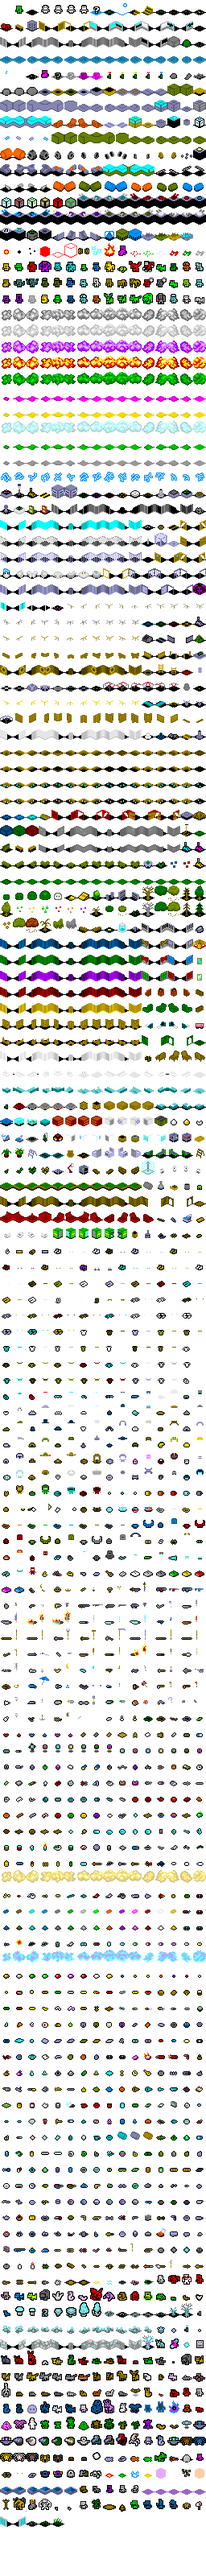
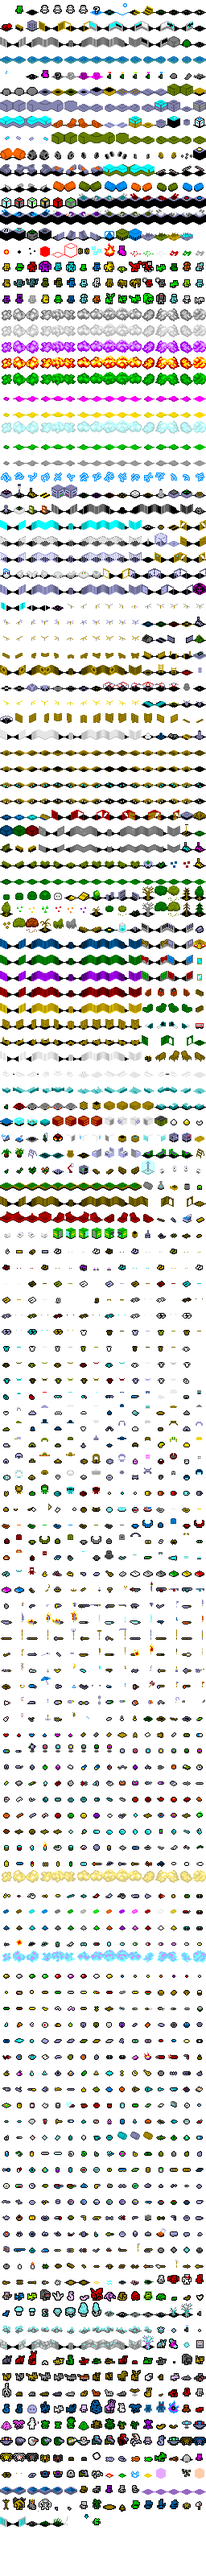
* add isometric branches to facing-left/facing-right calculations for monsters and player (including actions and ranged). The calculations are  simple and fast. * enable sprite flipping in isometric mode when appropriate * clarify to-flip-or-not-to-flip code for right/left-facing stuff * flip all en
* add run and crouch tile overlay support
* add run and crouch overlay tiles to hitbutton_iso tileset

* add parameter comments to some function calls that have many
parameters

* sneak brainless zombie sprite into hitbutton_iso tileset

* bonus: unshadow a couple of variables in big tile-drawing functions(x,
 y, col)

diff --git a/src/cata_tiles.cpp b/src/cata_tiles.cpp
@@ -1095,20 +1095,20 @@ void cata_tiles::draw( int destx, int desty, const tripoint &center, int width, 
             if( g->displaying_temperature ) {
                 int temp_value = g->weather.get_temperature( {x, y, center.z} );
                 int ctemp = temp_to_celsius( temp_value );
-                short col;
+                short color;
                 const short bold = 8;
                 if( ctemp > 40 ) {
-                    col = catacurses::red;
+                    color = catacurses::red;
                 } else if( ctemp > 25 ) {
-                    col = catacurses::yellow + bold;
+                    color = catacurses::yellow + bold;
                 } else if( ctemp > 10 ) {
-                    col = catacurses::green + bold;
+                    color = catacurses::green + bold;
                 } else if( ctemp > 0 ) {
-                    col = catacurses::white + bold;
+                    color = catacurses::white + bold;
                 } else if( ctemp > -10 ) {
-                    col = catacurses::cyan + bold;
+                    color = catacurses::cyan + bold;
                 } else {
-                    col = catacurses::blue + bold;
+                    color = catacurses::blue + bold;
                 }
                 if( get_option<std::string>( "USE_CELSIUS" ) == "celsius" ) {
                     temp_value = temp_to_celsius( temp_value );
@@ -1117,7 +1117,7 @@ void cata_tiles::draw( int destx, int desty, const tripoint &center, int width, 
 
                 }
                 overlay_strings.emplace( player_to_screen( x, y ) + point( tile_width / 2, 0 ),
-                                         formatted_text( std::to_string( temp_value ), col,
+                                         formatted_text( std::to_string( temp_value ), color,
                                                  NORTH ) );
             }
 
@@ -1176,24 +1176,24 @@ void cata_tiles::draw( int destx, int desty, const tripoint &center, int width, 
     }
 
     //Memorize everything the character just saw even if it wasn't displayed.
-    for( int y = 0; y < MAPSIZE_Y; y++ ) {
-        for( int x = 0; x < MAPSIZE_X; x++ ) {
+    for( int mem_y = 0; mem_y < MAPSIZE_Y; mem_y++ ) {
+        for( int mem_x = 0; mem_x < MAPSIZE_X; mem_x++ ) {
             //just finished o_x,o_y through sx+o_x,sy+o_y so skip them
-            if( x >= o_x && x < sx + o_x &&
-                y >= o_y && y < sy + o_y ) {
+            if( mem_x >= o_x && mem_x < sx + o_x &&
+                mem_y >= o_y && mem_y < sy + o_y ) {
                 continue;
             }
-            tripoint p( x, y, center.z );
+            tripoint p( mem_x, mem_y, center.z );
             int height_3d = 0;
             if( iso_mode ) {
                 //Iso_mode skips in a checkerboard
-                if( ( y ) % 2 != ( x ) % 2 ) {
+                if( ( mem_y ) % 2 != ( mem_x ) % 2 ) {
                     continue;
                 }
                 //iso_mode does weird things to x and y... replicate that
                 //The MAPSIZE_X/2 offset is to keep the rectangle in the upper right quadrant.
-                p.x = ( x - y - MAPSIZE_X / 2 + MAPSIZE_Y / 2 ) / 2 + MAPSIZE_X / 2;
-                p.y = ( y + x - MAPSIZE_Y / 2 - MAPSIZE_X / 2 ) / 2 + MAPSIZE_Y / 2;
+                p.x = ( mem_x - mem_y - MAPSIZE_X / 2 + MAPSIZE_Y / 2 ) / 2 + MAPSIZE_X / 2;
+                p.y = ( mem_y + mem_x - MAPSIZE_Y / 2 - MAPSIZE_X / 2 ) / 2 + MAPSIZE_Y / 2;
                 //Check if we're in previously done iso_mode space
                 if( p.x >= ( 0 - sy - sx / 2 + sy / 2 ) / 2 + o_x && p.x < ( sx - 0 - sx / 2 + sy / 2 ) / 2 + o_x &&
                     p.y >= ( 0 + 0 - sy / 2 - sx / 2 ) / 2 + o_y && p.y < ( sy + sx - sy / 2 - sx / 2 ) / 2 + o_y ) {
@@ -1750,7 +1750,7 @@ bool cata_tiles::draw_sprite_at( const tile_type &tile,
         sprite_num = 0;
     } else if( spritelist.size() == 1 ) {
         // just one tile, apply SDL sprite rotation if not in isometric mode
-        rotate_sprite = !tile_iso;
+        rotate_sprite = true;
         sprite_num = 0;
     } else {
         // multiple rotated tiles defined, don't apply sprite rotation after picking one
@@ -1805,19 +1805,34 @@ bool cata_tiles::draw_sprite_at( const tile_type &tile,
 #if defined(_WIN32)
                 destination.y -= 1;
 #endif
-                ret = sprite_tex->render_copy_ex( renderer, &destination, -90, NULL, SDL_FLIP_NONE );
+                if (not tile_iso) // never rotate isometric tiles
+                {
+                    ret = sprite_tex->render_copy_ex(renderer, &destination, -90, NULL, SDL_FLIP_NONE);
+                } else {
+                    ret = sprite_tex->render_copy_ex(renderer, &destination, 0, NULL, SDL_FLIP_NONE);
+                }
                 break;
             case 2: // 180 degrees, implemented with flips instead of rotation
-                ret = sprite_tex->render_copy_ex( renderer, &destination, 0, NULL,
-                                                  static_cast<SDL_RendererFlip>( SDL_FLIP_HORIZONTAL | SDL_FLIP_VERTICAL ) );
+                if (not tile_iso) // never flip isometric tiles vertically
+                {
+                    ret = sprite_tex->render_copy_ex(renderer, &destination, 0, NULL,
+                                                     static_cast<SDL_RendererFlip>( SDL_FLIP_HORIZONTAL | SDL_FLIP_VERTICAL ));
+                } else {
+                    ret = sprite_tex->render_copy_ex( renderer, &destination, 0, NULL, SDL_FLIP_NONE );
+                }
                 break;
             case 3: // 270 degrees
 #if defined(_WIN32)
                 destination.x -= 1;
 #endif
-                ret = sprite_tex->render_copy_ex( renderer, &destination, 90, NULL, SDL_FLIP_NONE );
+                if (not tile_iso) // never rotate isometric tiles
+                {
+                    ret = sprite_tex->render_copy_ex(renderer, &destination, 90, NULL, SDL_FLIP_NONE);
+                } else {
+                    ret = sprite_tex->render_copy_ex(renderer, &destination, 0, NULL, SDL_FLIP_NONE);
+                }
                 break;
-            case 4: // flip horizontaly
+            case 4: // flip horizontally
                 ret = sprite_tex->render_copy_ex( renderer, &destination, 0, NULL,
                                                   static_cast<SDL_RendererFlip>( SDL_FLIP_HORIZONTAL ) );
         }
@@ -1837,9 +1852,9 @@ bool cata_tiles::draw_tile_at( const tile_type &tile, int x, int y, unsigned int
                                int rota,
                                lit_level ll, bool apply_night_vision_goggles, int &height_3d )
 {
-    draw_sprite_at( tile, tile.bg, x, y, loc_rand, false, rota, ll, apply_night_vision_goggles );
-    draw_sprite_at( tile, tile.fg, x, y, loc_rand, true, rota, ll, apply_night_vision_goggles,
-                    height_3d );
+    draw_sprite_at(tile, tile.bg, x, y, loc_rand, /*fg:*/ false, rota, ll, apply_night_vision_goggles);
+    draw_sprite_at(tile, tile.fg, x, y, loc_rand, /*fg:*/ true, rota, ll, apply_night_vision_goggles,
+                   height_3d);
     return true;
 }
 
@@ -2314,10 +2329,10 @@ bool cata_tiles::draw_entity( const Creature &critter, const tripoint &p, lit_le
         const int subtile = corner;
         // depending on the toggle flip sprite left or right
         int rot_facing = -1;
-        if( m->facing == FD_LEFT ) {
-            rot_facing = 4;
-        } else if( m->facing == FD_RIGHT ) {
+        if( m->facing == FD_RIGHT ) {
             rot_facing = 0;
+        } else if( m->facing == FD_LEFT) {
+            rot_facing = 4;
         }
         if( rot_facing >= 0 ) {
             const auto ent_name = m->type->id;
@@ -2372,10 +2387,10 @@ void cata_tiles::draw_entity_with_overlays( const player &pl, const tripoint &p,
     int prev_height_3d = height_3d;
 
     // depending on the toggle flip sprite left or right
-    if( pl.facing == FD_LEFT ) {
-        draw_from_id_string( ent_name, C_NONE, "", p, corner, 4, ll, false, height_3d );
-    } else if( pl.facing == FD_RIGHT ) {
+    if( pl.facing == FD_RIGHT ) {
         draw_from_id_string( ent_name, C_NONE, "", p, corner, 0, ll, false, height_3d );
+    } else if( pl.facing == FD_LEFT ) {
+        draw_from_id_string( ent_name, C_NONE, "", p, corner, 4, ll, false, height_3d );
     }
 
     // next up, draw all the overlays
@@ -2384,10 +2399,10 @@ void cata_tiles::draw_entity_with_overlays( const player &pl, const tripoint &p,
         std::string draw_id = overlay;
         if( find_overlay_looks_like( pl.male, overlay, draw_id ) ) {
             int overlay_height_3d = prev_height_3d;
-            if( pl.facing == FD_LEFT ) {
-                draw_from_id_string( draw_id, C_NONE, "", p, corner, 4, ll, false, overlay_height_3d );
-            } else if( pl.facing == FD_RIGHT ) {
-                draw_from_id_string( draw_id, C_NONE, "", p, corner, 0, ll, false, overlay_height_3d );
+            if( pl.facing == FD_RIGHT ) {
+                draw_from_id_string(draw_id, C_NONE, "", p, corner, /*rota:*/ 0, ll, false, overlay_height_3d );
+            } else if( pl.facing == FD_LEFT ) {
+                draw_from_id_string(draw_id, C_NONE, "", p, corner, /*rota:*/ 4, ll, false, overlay_height_3d );
             }
             // the tallest height-having overlay is the one that counts
             height_3d = std::max( height_3d, overlay_height_3d );

diff --git a/src/avatar_action.cpp b/src/avatar_action.cpp
@@ -101,18 +101,67 @@ bool avatar_action::move( avatar &you, map &m, int dx, int dy, int dz )
     }
 
     // If the player is *attempting to* move on the X axis, update facing direction of their sprite to match.
-    const int new_dx = dest_loc.x - you.posx();
-    if( new_dx > 0 ) {
-        you.facing = FD_RIGHT;
-        if( you.has_effect( effect_riding ) && you.mounted_creature ) {
-            auto mons = you.mounted_creature.get();
-            mons->facing = FD_RIGHT;
+    int new_dx = dest_loc.x - you.posx();
+    int new_dy = dest_loc.y - you.posy();
+
+    if (not tile_iso) {
+        if (new_dx > 0) {
+            you.facing = FD_RIGHT;
+            if (you.has_effect(effect_riding) && you.mounted_creature) {
+                auto mons = you.mounted_creature.get();
+                mons->facing = FD_RIGHT;
+            }
+        } else if (new_dx < 0) {
+            you.facing = FD_LEFT;
+            if (you.has_effect(effect_riding) && you.mounted_creature) {
+                auto mons = you.mounted_creature.get();
+                mons->facing = FD_LEFT;
+            }
         }
-    } else if( new_dx < 0 ) {
-        you.facing = FD_LEFT;
-        if( you.has_effect( effect_riding ) && you.mounted_creature ) {
-            auto mons = you.mounted_creature.get();
-            mons->facing = FD_LEFT;
+    } else {
+        //
+        // iso:
+        //
+        // right key            =>  +x -y       FD_RIGHT
+        // left key             =>  -x +y       FD_LEFT
+        // up key               =>  +x +y       ______
+        // down key             =>  -x -y       ______
+        // y: left-up key       =>  __ +y       FD_LEFT
+        // u: right-up key      =>  +x __       FD_RIGHT
+        // b: left-down key     =>  -x __       FD_LEFT
+        // n: right-down key    =>  __ -y       FD_RIGHT
+        //
+        // right key            =>  +x -y       FD_RIGHT
+        // u: right-up key      =>  +x __       FD_RIGHT
+        // n: right-down key    =>  __ -y       FD_RIGHT
+        // up key               =>  +x +y       ______
+        // down key             =>  -x -y       ______
+        // left key             =>  -x +y       FD_LEFT
+        // y: left-up key       =>  __ +y       FD_LEFT
+        // b: left-down key     =>  -x __       FD_LEFT
+        //
+        // right key            =>  +x +y       FD_RIGHT
+        // u: right-up key      =>  +x __       FD_RIGHT
+        // n: right-down key    =>  __ +y       FD_RIGHT
+        // up key               =>  +x -y       ______
+        // left key             =>  -x -y       FD_LEFT
+        // b: left-down key     =>  -x __       FD_LEFT
+        // y: left-up key       =>  __ -y       FD_LEFT
+        // down key             =>  -x +y       ______
+        //
+        if (new_dx >= 0 && new_dy >= 0) {
+            you.facing = FD_RIGHT;
+            if (you.has_effect(effect_riding) && you.mounted_creature) {
+                auto mons = you.mounted_creature.get();
+                mons->facing = FD_RIGHT;
+            }
+        }
+        if (new_dy <= 0 && new_dx <= 0) {
+            you.facing = FD_LEFT;
+            if (you.has_effect(effect_riding) && you.mounted_creature) {
+                auto mons = you.mounted_creature.get();
+                mons->facing = FD_LEFT;
+            }
         }
     }
 

diff --git a/src/ranged.cpp b/src/ranged.cpp
@@ -1621,13 +1621,24 @@ std::vector<tripoint> target_handler::target_ui( player &pc, target_mode mode,
             }
         }
 
-        // Make player's sprite flip to face the current target
-        if( dst.x > src.x ) {
-            g->u.facing = FD_RIGHT;
-        } else if( dst.x < src.x ) {
-            g->u.facing = FD_LEFT;
-        }
+        int new_dx = dst.x - src.x;
+        int new_dy = dst.y - src.y;
 
+        // Make player's sprite flip to face the current target
+        if (not tile_iso) {
+            if (new_dx > 0) {
+                g->u.facing = FD_RIGHT;
+            } else if (new_dx < 0) {
+                g->u.facing = FD_LEFT;
+            }
+        } else {
+            if (new_dx >= 0 && new_dy >= 0) {
+                g->u.facing = FD_RIGHT;
+            }
+            if (new_dy <= 0 && new_dx <= 0) {
+                g->u.facing = FD_LEFT;
+            }
+        }
     } while( true );
 
     pc.view_offset = old_offset;

diff --git a/src/monmove.cpp b/src/monmove.cpp
@@ -738,11 +738,24 @@ void monster::move()
         // Otherwise weird things happen
         destination.z = posz();
     }
+
+    int new_dx = destination.x - pos().x;
+    int new_dy = destination.y - pos().y;
+
     // toggle facing direction for sdl flip
-    if( destination.x < pos().x ) {
-        facing = FD_LEFT;
+    if (not tile_iso) {
+        if (new_dx < 0) {
+            facing = FD_LEFT;
+        } else if (new_dx > 0) {
+            facing = FD_RIGHT;
+        }
     } else {
-        facing = FD_RIGHT;
+        if (new_dy <= 0 && new_dx <= 0) {
+            facing = FD_LEFT;
+        }
+        if (new_dx >= 0 && new_dy >= 0) {
+            facing = FD_RIGHT;
+        }
     }
 
     tripoint next_step;

diff --git a/src/player.cpp b/src/player.cpp
@@ -11751,6 +11751,10 @@ std::vector<std::string> player::get_overlay_ids() const
     if( is_armed() ) {
         rval.push_back( "wielded_" + weapon.typeId() );
     }
+
+    if(move_mode != "walk") {
+        rval.push_back(move_mode);
+    }
     return rval;
 }
 
